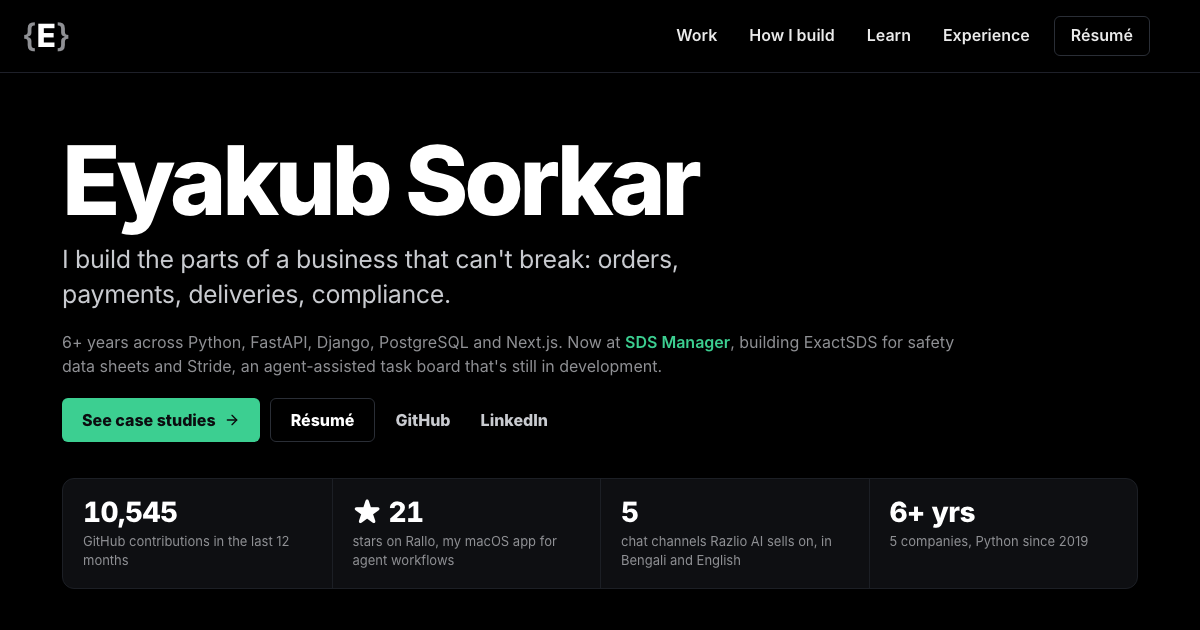
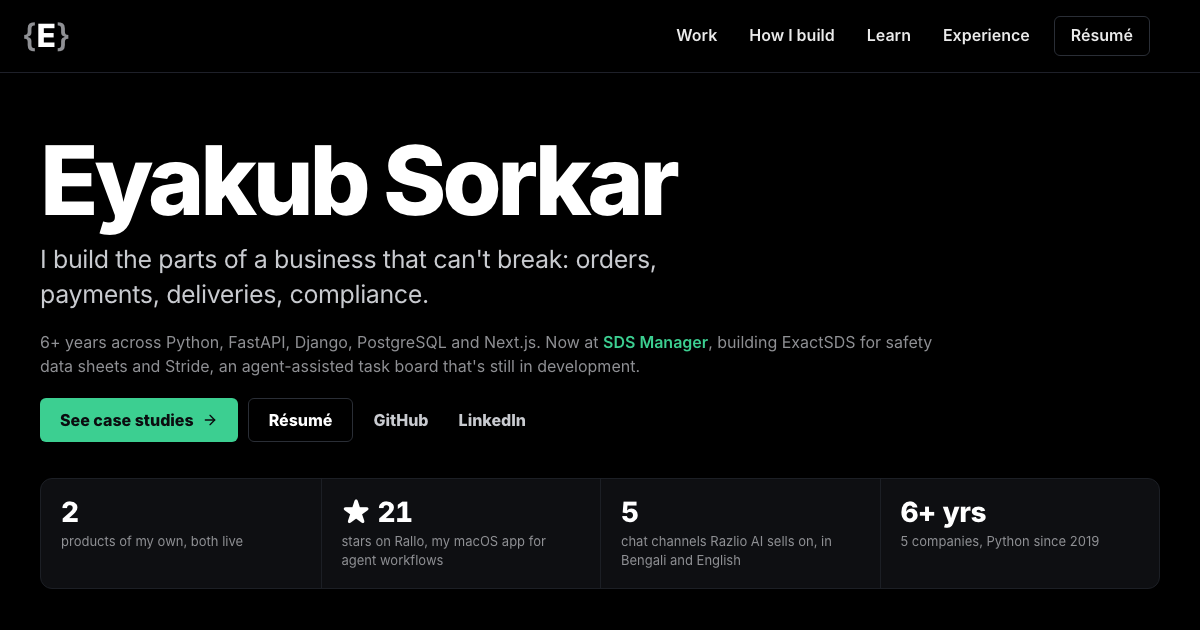
feat(home): contribution graph receipt under How I build
A year of GitHub contributions as a heatmap, with the total and the share
in private repos. Phones show the last 26 weeks. The data is committed
and refreshed with `npm run contributions`, so builds never need the
network. The proof strip's contributions cell becomes "2 products of my
own" so the number isn't shown twice.

diff --git a/components/ContributionGraph.js b/components/ContributionGraph.js
@@ -1,0 +1,81 @@
+import { Box, Flex, Heading, Link, Text } from '@chakra-ui/react'
+import data from '../data/contributions.json'
+import { toWeeks } from '../lib/contributions'
+import { MONO } from './SectionHead'
+
+const LEVELS = ['#1a1d23', 'rgba(60,207,145,0.3)', 'rgba(60,207,145,0.52)', 'rgba(60,207,145,0.76)', '#3CCF91']
+// 53 weeks don't fit a phone; show the last 26 there and the full year from md up.
+const PHONE_WEEKS = 26
+
+const weeks = toWeeks(data.from, data.days)
+const privatePct = Math.round((data.private / data.total) * 100)
+const long = (date) =>
+  new Date(`${date}T00:00:00Z`).toLocaleDateString('en-GB', { day: 'numeric', month: 'short', year: 'numeric', timeZone: 'UTC' })
+const shown = (i) => (i < weeks.length - PHONE_WEEKS ? { base: 'none', md: 'flex' } : 'flex')
+
+export default function ContributionGraph() {
+  return (
+    <Box
+      mt="12px"
+      p={{ base: '18px', md: '24px' }}
+      border="1px solid rgba(60,207,145,0.3)"
+      borderRadius="12px"
+      bg="linear-gradient(180deg, rgba(60,207,145,0.06), transparent)"
+    >
+      <Flex direction={{ base: 'column', md: 'row' }} justify="space-between" align={{ md: 'flex-end' }} gap="10px" mb="20px">
+        <Box>
+          <Text fontFamily={MONO} fontSize="11px" fontWeight="600" letterSpacing="0.12em" textTransform="uppercase" color="button1">
+            Receipt
+          </Text>
+          <Heading as="h3" mt="6px" mb="6px" fontSize="22px" letterSpacing="-0.015em" color="displayColor">
+            {data.total.toLocaleString('en-US')} contributions in the last 12 months
+          </Heading>
+          <Text fontSize="14px" color="textSecondary">
+            {privatePct}% of them in private repos, so most of it doesn&apos;t show on my public profile.
+          </Text>
+        </Box>
+        <Link href="https://github.com/Eyakub" isExternal flexShrink={0} color="button1" fontSize="14px" fontWeight="600">
+          github.com/Eyakub →
+        </Link>
+      </Flex>
+
+      <Box role="img" aria-label={`${data.total.toLocaleString('en-US')} GitHub contributions from ${long(data.from)} to ${long(data.to)}`}>
+        <Flex aria-hidden="true" gap="3px" h="14px" mb="6px">
+          {weeks.map((w, i) => (
+            <Box key={w.days[0].date} display={shown(i)} flex="1" minW={0} position="relative">
+              {w.month && (
+                <Text position="absolute" top={0} left={0} fontFamily={MONO} fontSize="11px" lineHeight="14px" color="textSecondary" whiteSpace="nowrap">
+                  {w.month}
+                </Text>
+              )}
+            </Box>
+          ))}
+        </Flex>
+        <Flex aria-hidden="true" gap="3px">
+          {weeks.map((w, i) => (
+            <Flex key={w.days[0].date} display={shown(i)} direction="column" gap="3px" flex="1" minW={0}>
+              {w.days.map((d) => (
+                <Box
+                  key={d.date}
+                  title={`${d.n} contribution${d.n === 1 ? '' : 's'} on ${long(d.date)}`}
+                  w="full"
+                  borderRadius="2px"
+                  bg={LEVELS[d.level]}
+                  sx={{ aspectRatio: '1' }}
+                />
+              ))}
+            </Flex>
+          ))}
+        </Flex>
+      </Box>
+
+      <Flex aria-hidden="true" mt="12px" justify="flex-end" align="center" gap="4px" fontFamily={MONO} fontSize="11px" color="textSecondary">
+        <Text mr="4px">Less</Text>
+        {LEVELS.map((bg) => (
+          <Box key={bg} boxSize="10px" borderRadius="2px" bg={bg} />
+        ))}
+        <Text ml="4px">More</Text>
+      </Flex>
+    </Box>
+  )
+}

diff --git a/lib/contributions.ts b/lib/contributions.ts
@@ -1,0 +1,27 @@
+export type Day = { n: number; level: number; date: string }
+export type Week = { days: Day[]; month?: string }
+
+const DAY_MS = 864e5
+const monthOf = (date: string) => new Date(`${date}T00:00:00Z`).getUTCMonth()
+const monthName = (date: string) =>
+  new Date(`${date}T00:00:00Z`).toLocaleDateString('en-GB', { month: 'short', timeZone: 'UTC' })
+
+// `days` starts on a Sunday, so every 7 entries are one week column.
+export function toWeeks(from: string, days: [number, number][]): Week[] {
+  const start = Date.parse(`${from}T00:00:00Z`)
+  const weeks: Week[] = []
+  for (let i = 0; i < days.length; i += 7) {
+    weeks.push({
+      days: days.slice(i, i + 7).map(([n, level], j) => ({
+        n,
+        level,
+        date: new Date(start + (i + j) * DAY_MS).toISOString().slice(0, 10),
+      })),
+    })
+  }
+  const changes = weeks.flatMap((w, i) => (i > 0 && monthOf(w.days[0].date) !== monthOf(weeks[i - 1].days[0].date) ? [i] : []))
+  for (const i of changes) weeks[i].month = monthName(weeks[i].days[0].date)
+  // Label the first column too, unless the next label is too close and would overlap it.
+  if (weeks.length && (changes[0] ?? Infinity) >= 3) weeks[0].month = monthName(weeks[0].days[0].date)
+  return weeks
+}

diff --git a/lib/contributions.test.ts b/lib/contributions.test.ts
@@ -1,0 +1,22 @@
+import { describe, expect, it } from 'vitest'
+import { toWeeks } from './contributions'
+
+const days = (count: number) => Array.from({ length: count }, (_, i) => [i, i % 5] as [number, number])
+
+describe('toWeeks', () => {
+  it('splits days into week columns with their dates', () => {
+    const weeks = toWeeks('2025-10-12', days(15))
+    expect(weeks.map((w) => w.days.length)).toEqual([7, 7, 1])
+    expect(weeks[2].days[0]).toEqual({ n: 14, level: 4, date: '2025-10-26' })
+  })
+
+  it('labels the first column when the next month is at least 3 weeks away', () => {
+    const weeks = toWeeks('2025-10-12', days(8 * 7))
+    expect(weeks.map((w) => w.month ?? '')).toEqual(['Oct', '', '', 'Nov', '', '', '', ''])
+  })
+
+  it('skips the first label when the next month starts right after it', () => {
+    const weeks = toWeeks('2025-10-26', days(7 * 7))
+    expect(weeks.map((w) => w.month ?? '')).toEqual(['', 'Nov', '', '', '', '', 'Dec'])
+  })
+})

diff --git a/components/ProofStrip.js b/components/ProofStrip.js
@@ -2,7 +2,7 @@ import { Box, SimpleGrid, Text } from '@chakra-ui/react'
 import homepage from '../data/homepage.json'
 
 const CELLS = [
-  [homepage.contributions.toLocaleString('en-US'), 'GitHub contributions in the last 12 months'],
+  ['2', 'products of my own, both live'],
   [`★ ${homepage.ralloStars}`, 'stars on Rallo, my macOS app for agent workflows'],
   ['5', 'chat channels Razlio AI sells on, in Bengali and English'],
   ['6+ yrs', '5 companies, Python since 2019'],

diff --git a/components/HowIBuild.js b/components/HowIBuild.js
@@ -1,5 +1,6 @@
 import { Box, Flex, Heading, SimpleGrid, Text } from '@chakra-ui/react'
 import { Check, GitBranch, ListChecks, Network } from 'lucide-react'
+import ContributionGraph from './ContributionGraph'
 import SectionHead, { MONO } from './SectionHead'
 
 const STEPS = [
@@ -34,6 +35,8 @@ export default function HowIBuild() {
           </Box>
         ))}
       </SimpleGrid>
+
+      <ContributionGraph />
     </Box>
   )
 }
